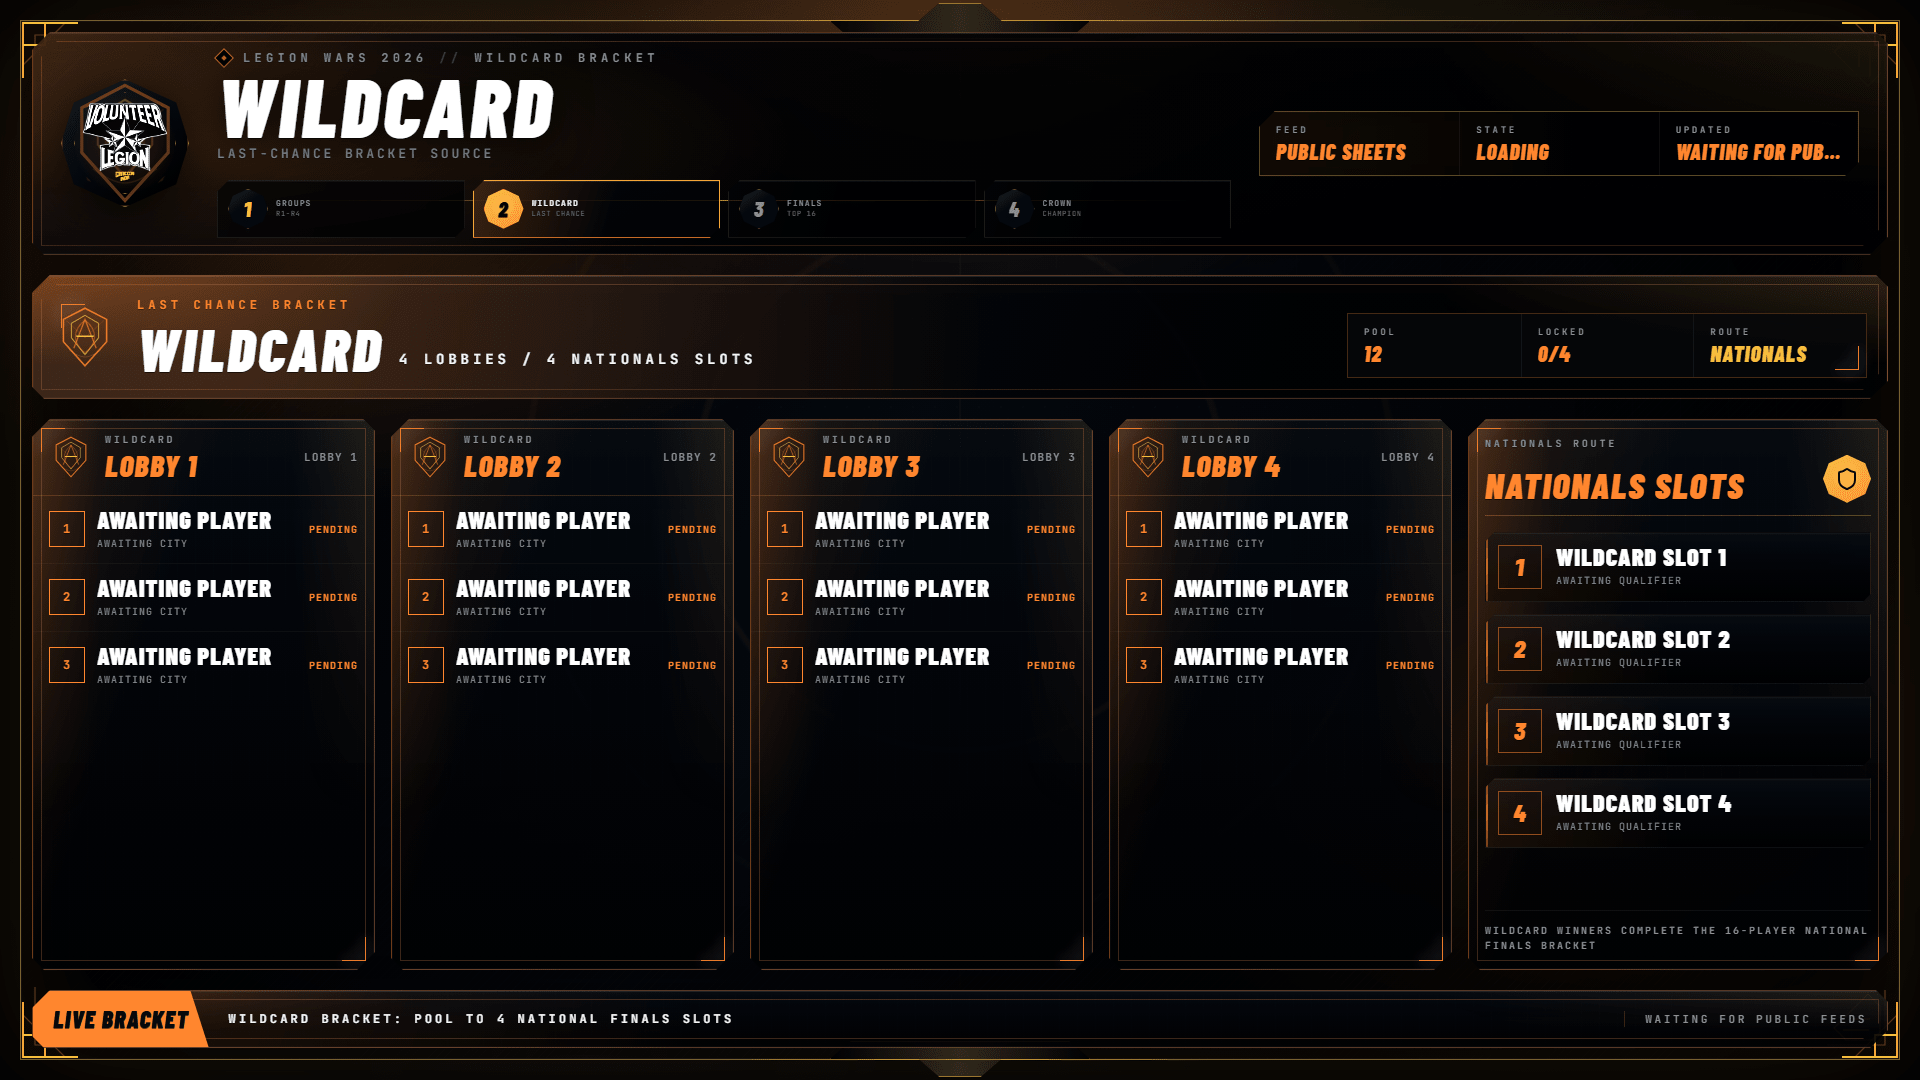
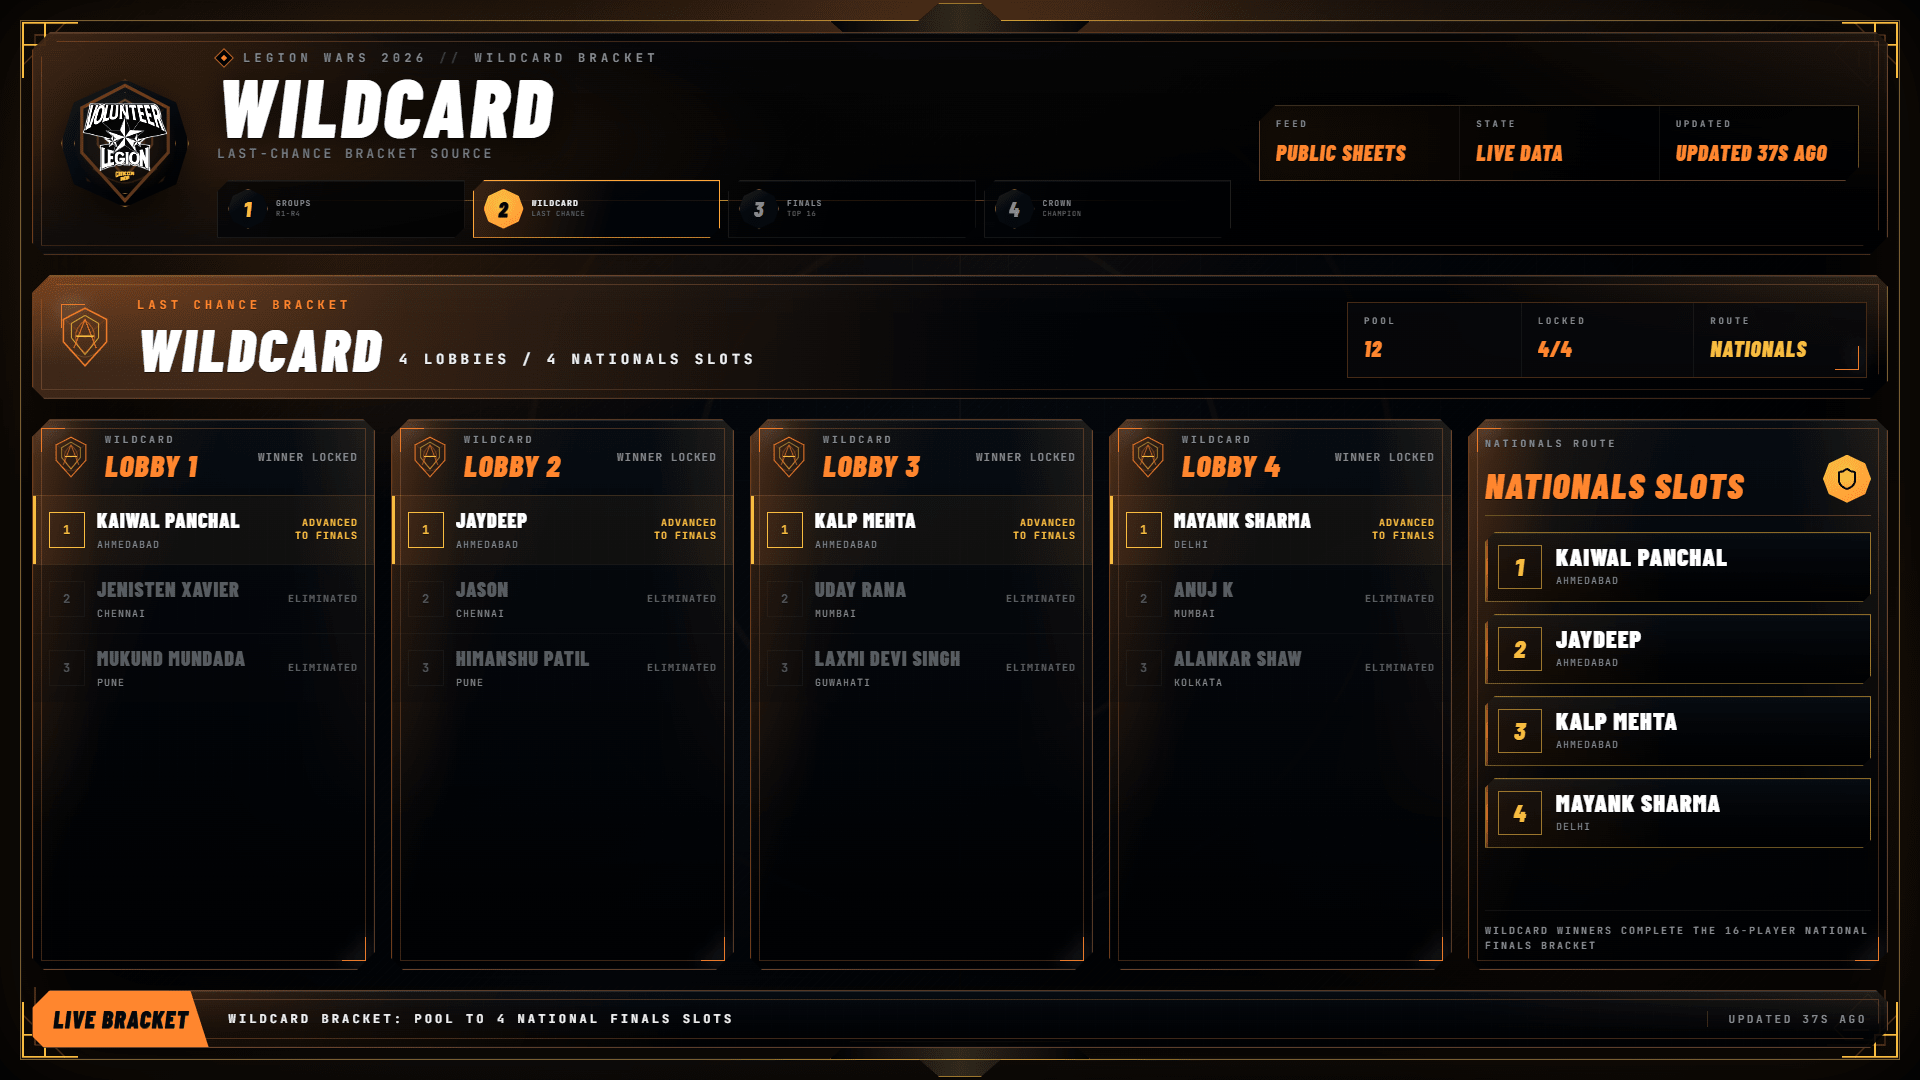
Fix wildcard advancement outcomes

diff --git a/src/components/tournament/ObsOverlayView.tsx b/src/components/tournament/ObsOverlayView.tsx
@@ -1996,20 +1996,29 @@ function WildcardPoolCard({ index, lobby }: { index: number; lobby: WildcardLobb
             className={cn(
               "flex items-center justify-between gap-3 px-4 py-3",
               player.state === "finals" && "bg-finals-soft/35 shadow-[inset_3px_0_0_var(--finals)]",
+              player.state === "eliminated" && "bg-background/25",
             )}
           >
             <div className="flex min-w-0 items-center gap-3">
               <span
-                className="grid h-9 w-9 shrink-0 place-items-center border font-mono text-xs font-black tabular-nums"
-                style={{
-                  borderColor: player.state === "finals" ? "var(--finals)" : `var(--${accent})`,
-                  color: player.state === "finals" ? "var(--finals)" : `var(--${accent})`,
-                }}
+                className={cn(
+                  "grid h-9 w-9 shrink-0 place-items-center border font-mono text-xs font-black tabular-nums",
+                  player.state === "finals"
+                    ? "border-finals text-finals"
+                    : player.state === "eliminated"
+                      ? "border-border/50 text-muted-foreground/55"
+                      : "border-wildcard text-wildcard",
+                )}
               >
                 {player.rank ?? playerIndex + 1}
               </span>
               <div className="min-w-0">
-                <div className="obs-player-name truncate font-heading text-2xl font-black uppercase leading-none tracking-tight text-white">
+                <div
+                  className={cn(
+                    "obs-player-name truncate font-heading text-xl font-black uppercase leading-tight tracking-tight",
+                    player.state === "eliminated" ? "text-muted-foreground/65" : "text-white",
+                  )}
+                >
                   {player.name}
                 </div>
                 <div className="mt-1 truncate font-mono text-[10px] uppercase tracking-widest text-muted-foreground">
@@ -2017,7 +2026,16 @@ function WildcardPoolCard({ index, lobby }: { index: number; lobby: WildcardLobb
                 </div>
               </div>
             </div>
-            <div className="font-mono text-[10px] font-black uppercase tracking-widest text-wildcard">
+            <div
+              className={cn(
+                "shrink-0 font-mono text-[10px] font-black uppercase tracking-widest",
+                player.state === "finals"
+                  ? "w-[76px] text-right leading-tight text-finals"
+                  : player.state === "eliminated"
+                    ? "text-muted-foreground/65"
+                    : "text-wildcard",
+              )}
+            >
               {player.stateLabel}
             </div>
           </div>

diff --git a/src/data/sheet-data.js b/src/data/sheet-data.js
@@ -742,7 +742,7 @@ function buildWildcardProgression(lobbies, activeStage, feedConfig) {
   const qualifiers = poolLobbies
     .map((lobby) => {
       return (lobby.players ?? []).find((player) => {
-        return player.qualified || player.rank === 1 || player.state === "qualified";
+        return player.rank === 1 || player.state === "qualified";
       });
     })
     .filter(Boolean)
@@ -758,7 +758,7 @@ function buildWildcardProgression(lobbies, activeStage, feedConfig) {
           placement: index + 1,
           pending: false,
           state: "qualified",
-          stateLabel: "Finals",
+          stateLabel: "Advanced to Finals",
         }
       : {
           seed: `WQ${index + 1}`,
@@ -851,23 +851,31 @@ function normalizeWildcardPoolCard(lobby, index) {
     ...lobby,
     id: `Wildcard_L${index + 1}`,
     name: lobby.name ?? `Wildcard Lobby ${index + 1}`,
-    players: (lobby.players ?? []).map((player) => ({
-      ...player,
-      state: player.pending
+    players: (lobby.players ?? []).map((player) => {
+      const hasRank = Number.isInteger(player.rank);
+      const state = player.pending
         ? "pending"
-        : player.qualified || player.rank === 1
-          ? "qualified"
-          : Number.isInteger(player.rank)
-            ? "eliminated"
-            : "wildcard",
-      stateLabel: player.pending
-        ? "Pending"
-        : player.qualified || player.rank === 1
-          ? "Finals"
-          : Number.isInteger(player.rank)
-            ? "Out"
-            : "Pool",
-    })),
+        : hasRank
+          ? player.rank === 1
+            ? "qualified"
+            : "eliminated"
+          : player.qualified
+            ? "qualified"
+            : "wildcard";
+
+      return {
+        ...player,
+        state,
+        stateLabel:
+          state === "qualified"
+            ? "Advanced to Finals"
+            : state === "eliminated"
+              ? "Eliminated"
+              : state === "pending"
+                ? "Pending"
+                : "Pool",
+      };
+    }),
   };
 }
 

diff --git a/src/components/tournament/WildcardView.tsx b/src/components/tournament/WildcardView.tsx
@@ -58,7 +58,7 @@ export function WildcardView({
         </div>
       </div>
 
-      <div className="grid gap-4 lg:grid-cols-4">
+      <div className="grid gap-4 sm:grid-cols-2 xl:grid-cols-4">
         {lobbies.map((lobby, index) => (
           <WildcardLobbyCard key={lobby.id} index={index} lobby={lobby} />
         ))}
@@ -178,6 +178,7 @@ function WildcardLobbyPlayer({ player, playerIndex }: { player: Player; playerIn
       className={cn(
         "flex items-center gap-3 px-3 py-3",
         isWinner && "bg-finals-soft/35 shadow-[inset_3px_0_0_var(--finals)]",
+        isOut && "bg-background/20",
       )}
     >
       <span
@@ -196,7 +197,7 @@ function WildcardLobbyPlayer({ player, playerIndex }: { player: Player; playerIn
         <div
           className={cn(
             "truncate font-mono text-xs font-bold uppercase tracking-wide",
-            isOut ? "text-muted-foreground/55" : "text-foreground",
+            isOut ? "text-muted-foreground/65" : "text-foreground",
           )}
         >
           {player.name}
@@ -210,7 +211,9 @@ function WildcardLobbyPlayer({ player, playerIndex }: { player: Player; playerIn
           "border px-1.5 py-0.5 font-mono text-[9px] font-bold uppercase tracking-[0.18em]",
           isWinner
             ? "border-finals/40 bg-finals-soft/30 text-finals"
-            : "border-wildcard/35 bg-wildcard-soft/20 text-wildcard",
+            : isOut
+              ? "border-border/50 bg-muted/20 text-muted-foreground/70"
+              : "border-wildcard/35 bg-wildcard-soft/20 text-wildcard",
         )}
       >
         {player.stateLabel}

diff --git a/src/lib/live-tournament-data.ts b/src/lib/live-tournament-data.ts
@@ -502,17 +502,18 @@ function normalizeWildcardPlayerState(player: SheetFeed): PlayerState {
   const normalized = cleanText(player?.state).toLowerCase();
   const rank = toNumberOrNull(player?.rank);
   const qualified = Boolean(player?.qualified);
-  if (normalized === "finals" || normalized === "qualified" || qualified || rank === 1) {
+  if (rank != null) return rank === 1 ? "finals" : "eliminated";
+  if (normalized === "finals" || normalized === "qualified" || qualified) {
     return "finals";
   }
-  if (normalized === "eliminated" || (rank != null && rank > 1)) return "eliminated";
+  if (normalized === "eliminated") return "eliminated";
   if (isAwaitingName(player?.name)) return "pending";
   return "wildcard";
 }
 
 function wildcardPlayerStateLabel(state: PlayerState): string {
-  if (state === "finals") return "Finals";
-  if (state === "eliminated") return "Out";
+  if (state === "finals") return "Advanced to Finals";
+  if (state === "eliminated") return "Eliminated";
   if (state === "pending") return "Pending";
   return "Pool";
 }
